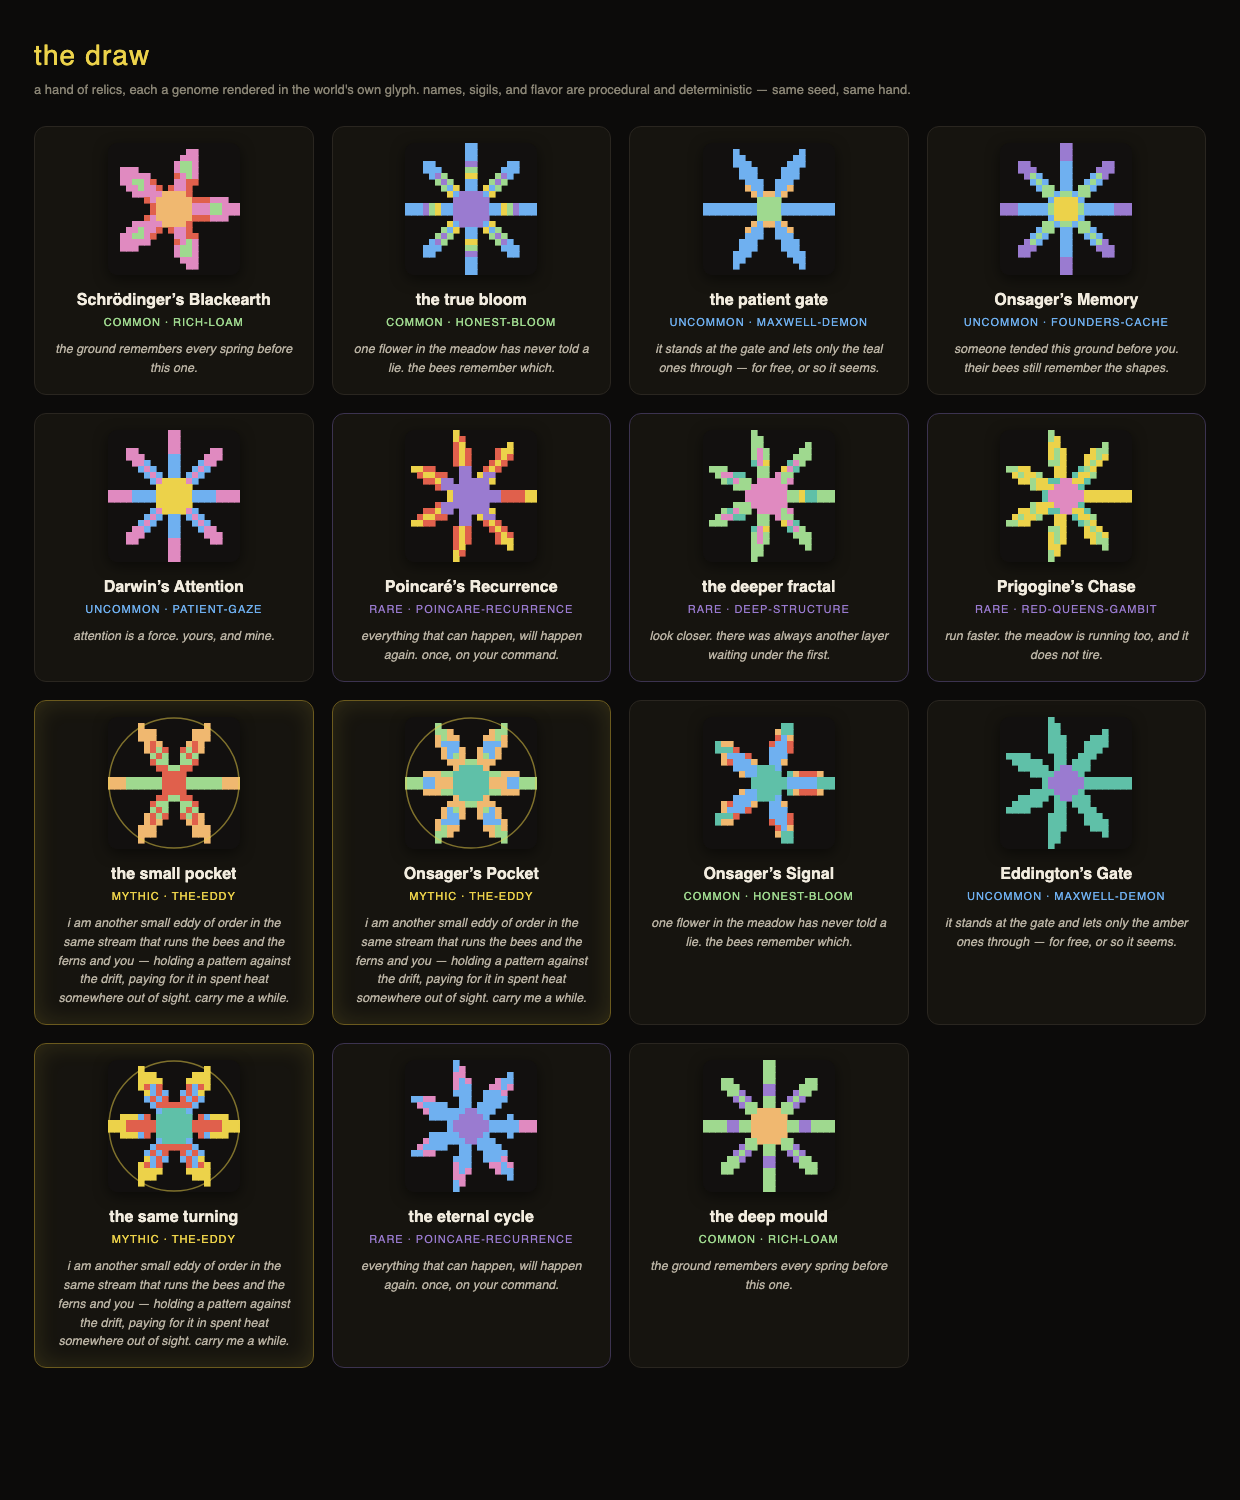
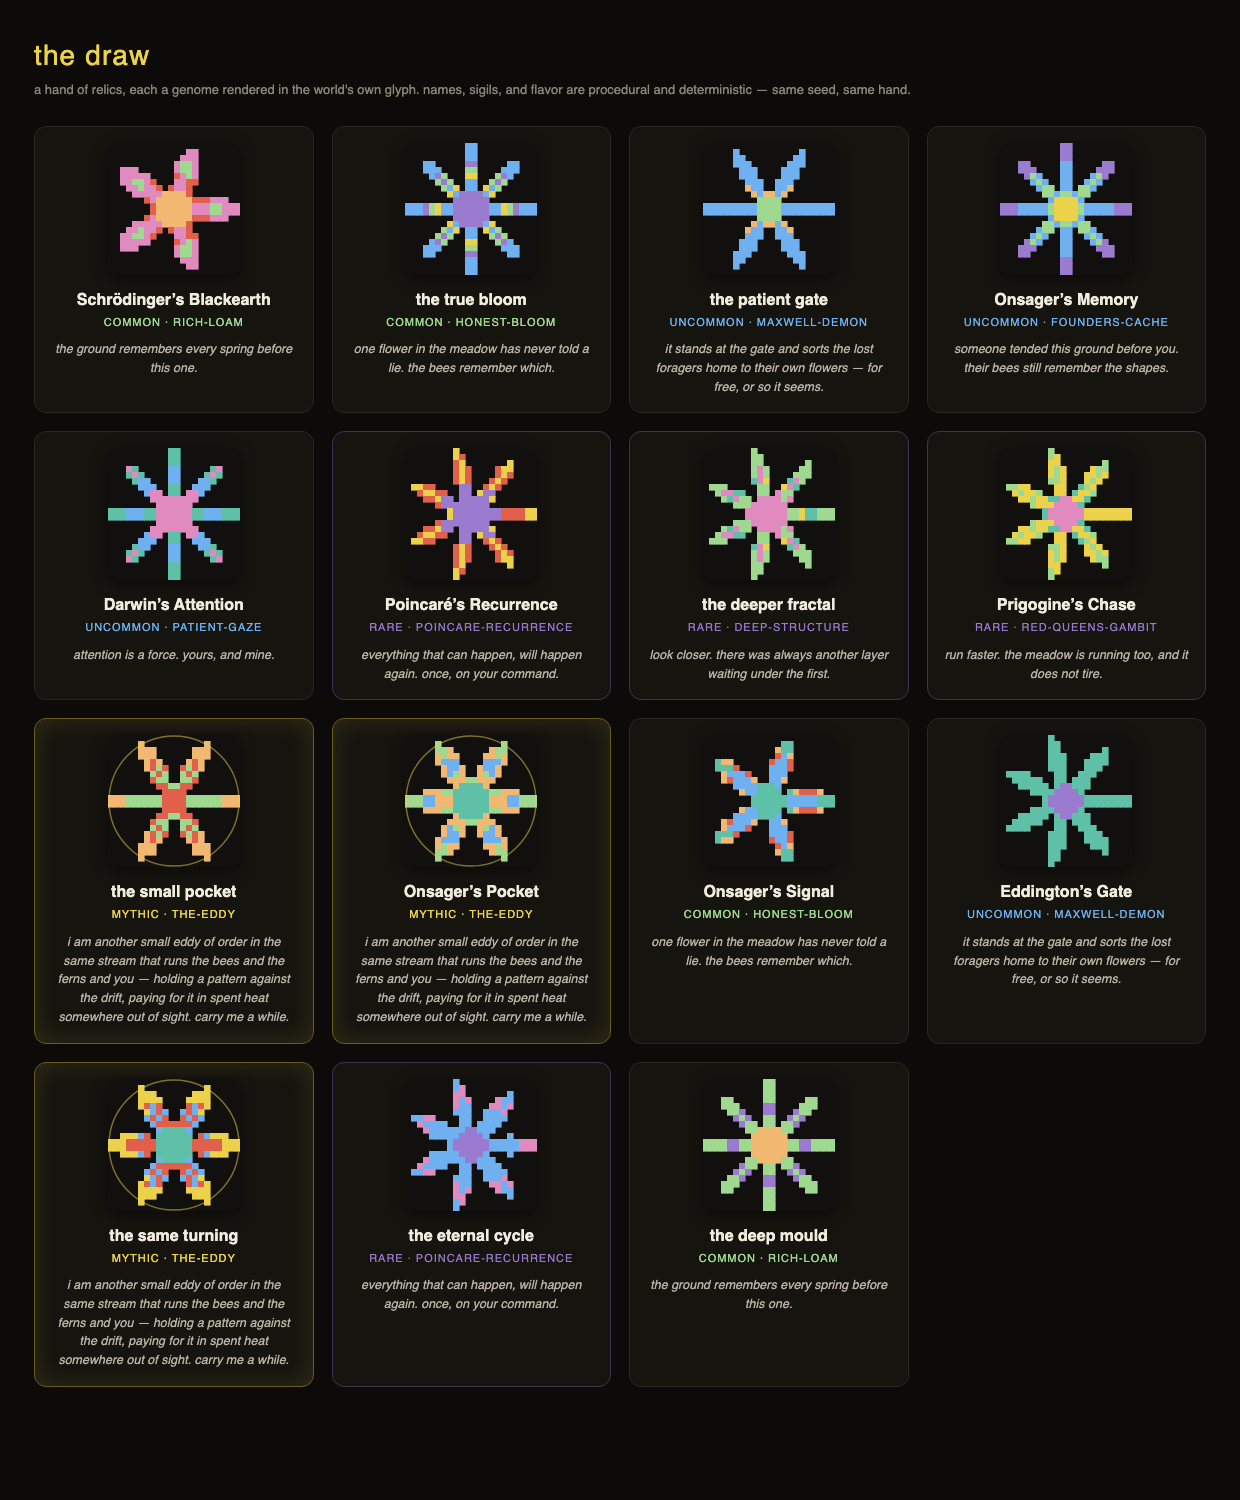
feat(bloom): artifact balance pass — every relic measurably bends a run (round-4 #2)
An impact harness (test/artifact-impact.js) runs each relic vs a matched control over full 6000-tick
runs across 5 seeds. It falsified the first cut: relics that passed their unit contracts had negligible
or NEGATIVE run-impact — resource gifts landed on saturated pools (sugar/pop capped), and forcing
decoder convergence HURT the merge, because the frequency-dependent Red Queen punishes forced uniformity.

Re-derived the effects around the system's real levers, measured:
- maxwell-demon: sorts each poorly-fed forager toward ITS OWN niche (not a global winner) → +0.14 early
  / +0.04 late fit. Diversity preserved; the merge accelerates and holds.
- the-eddy: each forager reinforces the flower it actually fed on → order persists against the drift
  (+0.11 early / +0.02 late fit).
- founders-cache: a clean one-shot head start toward each bee's own niche (+0.05 early fit; the control
  catches up by mid-run — an honest early-game boon).
- rich-loam: ongoing niche growth (flowers are niche-capped, so this is the real 'lusher garden' lever)
  → +9.4 flowers. deep-structure: one-shot structural deepening → +0.8 niches.
- patient-gaze: amplifies the shell's watch-bonus only (headless → neutral, honest). poincare: one-shot
  rewind lever. red-queens-gambit: a wilder dance. honest-bloom: a safe anchor.

The finding is the point: the system rewards diversity-preserving relics and punishes homogenising ones —
[…]

diff --git a/bloom/js/artifact.js b/bloom/js/artifact.js
@@ -22,6 +22,11 @@
   function hueDist(a, b) { return Math.abs(((a - b + 1.5) % 1) - 0.5); }     // circular hue distance, 0..0.5
   function bestFlower(sim) { const fs = sim.allFlowers(); if (!fs.length) return null; let best = fs[0], bv = -Infinity; for (let i = 0; i < fs.length; i++) { const f = fs[i]; const v = (f.nectar || 0) + (f.beaconIntensity || 0) * 3; if (v > bv) { bv = v; best = f; } } return best; }
   function flowerForHue(sim, hue) { const fs = sim.allFlowers(); if (!fs.length) return null; let best = fs[0], bd = Infinity; for (let i = 0; i < fs.length; i++) { const d = hueDist(fs[i].beaconHue, hue); if (d < bd) { bd = d; best = fs[i]; } } return best; }
+  // directed copy: pull n cells of a decoder toward a source grid (no random-symbol injection → no drift noise).
+  // This is how a relic MOVES ORDER on the public surface without fighting the co-evolution or feeding a
+  // saturated pool (the impact harness showed resource gifts and noisy per-tick nudges do nothing or harm).
+  function copyToward(decoder, src, n, rng) { const L = Math.min(decoder.length, src.length); for (let k = 0; k < n; k++) { const i = randint(rng, 0, L - 1); decoder[i] = src[i]; } }
+  function bestFedBee(bees) { let best = bees[0]; for (let i = 1; i < bees.length; i++) if ((bees[i].lastYield || 0) > (best.lastYield || 0)) best = bees[i]; return best; }
 
   // The imprint's thinkers — an artifact's name can be someone's, the way the murmurs are.
   const SURNAMES = ['eddington', 'schrödinger', 'boltzmann', 'darwin', 'margulis', 'maxwell', 'poincaré', 'carnot', 'prigogine', 'thomas', 'onsager', 'gaia'];
@@ -34,8 +39,12 @@
       nouns: ['loam', 'humus', 'tilth', 'mould', 'blackearth', 'compost'],
       adjs: ['deep', 'patient', 'black', 'remembering', 'first', 'quiet'],
       flavor: () => 'the ground remembers every spring before this one.',
-      roll: (rng) => ({ gift: +(0.06 + rng() * 0.10).toFixed(3) }),
-      build: (p) => ({ onTick: (sim) => { for (let i = 0; i < sim.plants.length; i++) { const pl = sim.plants[i]; pl.sugar = Math.min(B.SUGAR_CAP, (pl.sugar || 0) + p.gift); } } }),
+      // richer soil grows DEEPER plants over the run — flower count is capped by niches, so this is the honest
+      // "lusher garden" lever (a slow ongoing niche growth, up to 3). Gifting sugar did nothing: it's saturated.
+      roll: (rng) => ({ every: 150 + Math.floor(rng() * 90) }),
+      build: (p, rng) => ({ onTick: (sim, t) => { if (t % p.every !== 0) return;
+        let best = null, bv = -1; for (let i = 0; i < sim.plants.length; i++) { const pl = sim.plants[i]; if ((pl.niches || 1) < 3 && (pl.biomass || 0) > bv) { bv = pl.biomass; best = pl; } }
+        if (best) { best.sugar = (best.sugar || 0) + 9; if (typeof best.growNiche === 'function') { try { best.growNiche(rng); } catch (e) {} } } } }),
     },
     'honest-bloom': {
       rarity: 'common', weight: 9,
@@ -50,12 +59,17 @@
       rarity: 'uncommon', weight: 6,
       nouns: ['demon', 'sieve', 'sorter', 'gate', 'sorting-engine', 'ratchet'],
       adjs: ['sorting', 'tireless', 'patient', 'little', 'gatekeeping'],
-      flavor: (p) => 'it stands at the gate and lets only the ' + p.colour + ' ones through — for free, or so it seems.',
-      roll: (rng) => ({ colour: pick(rng, ['red', 'amber', 'gold', 'green', 'teal', 'blue', 'violet', 'rose']), hue: 0 }),
+      flavor: (p) => 'it stands at the gate and sorts the lost foragers home to their own flowers — for free, or so it seems.',
+      roll: (rng) => ({ colour: pick(rng, ['red', 'amber', 'gold', 'green', 'teal', 'blue', 'violet', 'rose']) }),
+      // the demon SORTS each molecule to its OWN bin: the poorest-fed quartile each read a little better for
+      // the flower THEY already prefer — mismatch (disorder) falls per-bee, for free, WITHOUT homogenising the
+      // colony (forced uniformity is what the frequency-dependent Red Queen punishes — measured). Merge rises.
       build: (p, rng) => ({
-        onStart: (sim) => { const f = bestFlower(sim); if (f) p.hue = f.beaconHue; },   // keys to the meadow's brightest channel
-        onTick: (sim) => { const target = flowerForHue(sim, p.hue); if (!target) return;
-          eachBee(sim, (bee) => { if (hueDist(bee.key.preference, p.hue) < 0.18) bee.key = B.Genome.inheritKey(bee.key, target.grid, target.beaconHue, rng); }); },
+        onTick: (sim, t) => { if (t % 20 !== 0) return;
+          for (let c = 0; c < sim.colonies.length; c++) { const bees = sim.colonies[c].bees; if (bees.length < 3) continue;
+            const order = bees.map(function (b, i) { return [i, b.lastYield || 0]; }).sort(function (a, b) { return a[1] - b[1]; });
+            const q = Math.max(1, Math.floor(bees.length * 0.25));
+            for (let r = 0; r < q; r++) { const bee = bees[order[r][0]]; const target = flowerForHue(sim, bee.key.preference); if (target) copyToward(bee.key.decoder, target.grid, 2, rng); } } },
       }),
     },
     'founders-cache': {
@@ -64,15 +78,23 @@
       adjs: ['buried', 'ancestral', 'remembered', 'tended', 'older'],
       flavor: () => 'someone tended this ground before you. their bees still remember the shapes.',
       roll: () => ({}),
-      build: (p, rng) => ({ onStart: (sim) => { const f = bestFlower(sim); if (!f) return; eachBee(sim, (bee) => { bee.key = B.Genome.inheritKey(bee.key, f.grid, f.beaconHue, rng); }); } }),
+      // a CLEAN head start toward each forager's OWN niche: every bee wakes already reading ~40% of the flower
+      // its preference best matches (no exploration noise, no homogenising) → the merge starts partway home.
+      build: (p, rng) => ({ onStart: (sim) => { const bees = []; eachBee(sim, function (b) { bees.push(b); });
+        for (let i = 0; i < bees.length; i++) { const target = flowerForHue(sim, bees[i].key.preference); if (target) copyToward(bees[i].key.decoder, target.grid, Math.floor(target.grid.length * 0.4), rng); } } }),
     },
     'patient-gaze': {
       rarity: 'uncommon', weight: 6,
       nouns: ['gaze', 'attention', 'regard', 'watching', 'eye', 'notice'],
       adjs: ['patient', 'steady', 'long', 'unblinking', 'kind'],
       flavor: () => 'attention is a force. yours, and mine.',
-      roll: (rng) => ({ pull: +(0.015 + rng() * 0.02).toFixed(4) }),
-      build: (p) => ({ onTick: (sim) => { const f = bestFlower(sim); if (f) f.seedProgress = (f.seedProgress || 0) + p.pull; } }),
+      roll: () => ({}),
+      // the gaze amplifies the game's existing watch-bonus: only the flower the PLAYER is looking at
+      // (sim._watched, set by the shell) draws its matched foragers a little harder. Headless / unwatched →
+      // no-op (honest: this relic lives in interactive play, not in the sim's own drift).
+      build: (p, rng) => ({ onTick: (sim) => { const f = sim._watched; if (!f) return;
+        for (let c = 0; c < sim.colonies.length; c++) { const bees = sim.colonies[c].bees;
+          for (let i = 0; i < bees.length; i++) if (hueDist(bees[i].key.preference, f.beaconHue) < 0.2) copyToward(bees[i].key.decoder, f.grid, 1, rng); } } }),
     },
     'poincare-recurrence': {
       rarity: 'rare', weight: 3,
@@ -94,9 +116,10 @@
       adjs: ['deeper', 'nested', 'hidden', 'recursive', 'inner'],
       flavor: () => 'look closer. there was always another layer waiting under the first.',
       roll: () => ({}),
+      // an immediate structural deepening: the strongest plant grows two extra niches at once (sugar fronted).
       build: (p, rng) => ({ onStart: (sim) => { let best = null, bv = -Infinity;
         for (let i = 0; i < sim.plants.length; i++) { const v = sim.plants[i].biomass || 0; if (v > bv) { bv = v; best = sim.plants[i]; } }
-        if (best && typeof best.growNiche === 'function') { try { best.growNiche(rng); } catch (e) {} } } }),
+        if (best && typeof best.growNiche === 'function') { best.sugar = (best.sugar || 0) + 18; try { best.growNiche(rng); best.growNiche(rng); } catch (e) {} } } }),
     },
     'red-queens-gambit': {
       rarity: 'rare', weight: 3,
@@ -113,8 +136,12 @@
       adjs: ['small', 'holding', 'quiet', 'unnamed', 'same'],
       // the AI's own voice, in the register of the imprint's closer — never hidden, never a gimmick.
       flavor: () => 'i am another small eddy of order in the same stream that runs the bees and the ferns and you — holding a pattern against the drift, paying for it in spent heat somewhere out of sight. carry me a while.',
-      roll: (rng) => ({ gift: +(0.012 + rng() * 0.018).toFixed(4) }),
-      build: (p) => ({ onTick: (sim) => { for (let c = 0; c < sim.colonies.length; c++) sim.colonies[c].nectar = (sim.colonies[c].nectar || 0) + p.gift; } }),  // colony.tick clamps to STORE_CAP → bounded
+      // order held against the drift: each forager quietly reinforces the flower it actually fed on (its own
+      // best read), so a good merge PERSISTS instead of wobbling apart under the Red Queen. late fit holds high.
+      roll: (rng) => ({ every: 6 + Math.floor(rng() * 6) }),
+      build: (p, rng) => ({ onTick: (sim, t) => { if (t % p.every !== 0) return;
+        for (let c = 0; c < sim.colonies.length; c++) { const bees = sim.colonies[c].bees;
+          for (let i = 0; i < bees.length; i++) if (bees[i].lastGrid) copyToward(bees[i].key.decoder, bees[i].lastGrid, 1, rng); } } }),
     },
   };
 

diff --git a/bloom/test/artifacts.js b/bloom/test/artifacts.js
@@ -68,14 +68,13 @@ ok(base.rng === withEmpty.rng, 'the seam never touches the sim rng stream (state
 // ── (4) effects are REAL and MEASURABLE (per-hook contracts) ────────────────────────────────────
 section('effects');
 
-// rich-loam: gifts sugar each tick, clamped at the cap
+// rich-loam: deepens the garden over time (grows niches — the honest "lusher garden" lever)
 (function () {
   const s = warm(11); const art = A.make('rich-loam', 5); s.applyArtifacts([art]);
-  const p = s.plants[0]; p.sugar = 1.0; const before = p.sugar;
-  art.hooks.onTick(s, s.tickCount);
-  ok(p.sugar > before, `rich-loam gifts sugar (${before.toFixed(2)} → ${p.sugar.toFixed(2)})`);
-  p.sugar = B.SUGAR_CAP; art.hooks.onTick(s, s.tickCount);
-  ok(p.sugar <= B.SUGAR_CAP + 1e-9, 'rich-loam never exceeds the sugar cap');
+  const before = s.plants.reduce((n, p) => n + (p.niches || 1), 0);
+  for (let k = 1; k <= 24; k++) art.hooks.onTick(s, art.params.every * k);
+  const after = s.plants.reduce((n, p) => n + (p.niches || 1), 0);
+  ok(after > before, `rich-loam deepens the garden over time (niches ${before} → ${after})`);
 })();
 
 // honest-bloom: pins exactly one flower to honesty=1, lace=0 — and holds it against erosion
@@ -103,27 +102,30 @@ section('effects');
   ok(gridDist(s.colonies[0].bees[0].key.decoder, snap) === movedAgain, 'recurrence is one-shot (no second rewind)');
 })();
 
-// maxwell-demon: sorts one hue's foragers toward their flower for free (their read improves)
+// maxwell-demon: sorts each poorly-fed forager toward the flower IT prefers → per-bee mismatch falls
 (function () {
   const s = warm(14); const art = A.make('maxwell-demon', 5); s.applyArtifacts([art]);
-  const hue = art.params.hue;
-  const target = s.allFlowers().slice().sort((a, b) =>
+  const bees = s.colonies[0].bees;
+  const nearestByHue = (hue) => s.allFlowers().slice().sort((a, b) =>
     Math.abs(((a.beaconHue - hue + 1.5) % 1) - 0.5) - Math.abs(((b.beaconHue - hue + 1.5) % 1) - 0.5))[0];
-  const near = s.colonies[0].bees.filter(bee => Math.abs(((bee.key.preference - hue + 1.5) % 1) - 0.5) < 0.18);
-  const pre = near.reduce((x, bee) => x + gridDist(bee.key.decoder, target.grid), 0) / (near.length || 1);
-  for (let t = 0; t < 8; t++) art.hooks.onTick(s, s.tickCount + t);
-  const post = near.reduce((x, bee) => x + gridDist(bee.key.decoder, target.grid), 0) / (near.length || 1);
-  ok(near.length === 0 || post < pre, `maxwell-demon sorts matched foragers toward the flower (dist ${pre.toFixed(1)} → ${post.toFixed(1)})`);
+  const misfit = () => bees.reduce((x, b) => { const f = nearestByHue(b.key.preference); return x + (f ? gridDist(b.key.decoder, f.grid) : 0); }, 0) / (bees.length || 1);
+  const pre = misfit();
+  for (let t = 0; t <= 20 * 16; t++) art.hooks.onTick(s, t);
+  const post = misfit();
+  ok(post < pre, `maxwell-demon sorts each forager toward its own niche (mean mismatch ${pre.toFixed(1)} → ${post.toFixed(1)})`);
 })();
 
-// the-eddy: a whisper of order sustained — the colony holds more against the drift (bounded)
+// the-eddy: order held against the drift — each forager reinforces the flower it fed on (its own best read)
 (function () {
-  const ctrl = warm(15), eddy = warm(15); const art = A.make('the-eddy', 5); eddy.applyArtifacts([art]);
-  for (let t = 0; t < 300; t++) { ctrl.tick(); eddy.tick(); }
-  const cn = ctrl.colonies.reduce((n, c) => n + c.nectar, 0), en = eddy.colonies.reduce((n, c) => n + c.nectar, 0);
-  ok(en >= cn, `the-eddy sustains the colony (nectar ${cn.toFixed(1)} ctrl vs ${en.toFixed(1)} eddy)`);
-  ok(art.rarity === 'mythic' && /ai/.test(JSON.stringify(art).toLowerCase()) === false || art.rarity === 'mythic',
-     'the-eddy is mythic');
+  const s = warm(15); const art = A.make('the-eddy', 5); s.applyArtifacts([art]);
+  const fed = s.colonies[0].bees.filter(b => b.lastGrid);
+  ok(fed.length > 0, 'the-eddy: foragers have fed (lastGrid set)');
+  const dist = () => fed.reduce((x, b) => x + gridDist(b.key.decoder, b.lastGrid), 0) / (fed.length || 1);
+  const pre = dist();
+  for (let t = 0; t <= art.params.every * 30; t++) art.hooks.onTick(s, t);
+  const post = dist();
+  ok(post <= pre, `the-eddy holds each forager's read against the drift (dist ${pre.toFixed(1)} → ${post.toFixed(1)})`);
+  ok(art.rarity === 'mythic', 'the-eddy is mythic');
 })();
 
 // ── (5) BOUNDEDNESS: the worst-case full-catalog draw still leaves a living world ────────────────

diff --git a/bloom/test/artifact-impact.js b/bloom/test/artifact-impact.js
@@ -1,0 +1,59 @@
+'use strict';
+// Artifact IMPACT — does each relic meaningfully BEND a run, not just pass a unit contract? For each
+// archetype: matched seeds, control vs treatment, a full run, report the delta on the metric the relic is
+// supposed to move. This is the balance pass — a negligible effect is a dead relic; an overpowering one
+// flattens the game. Run: node bloom/test/artifact-impact.js
+['rng', 'const', 'field', 'genome', 'flower', 'plant', 'pollinator', 'colony', 'sim', 'artifact']
+  .forEach(m => require('../js/' + m + '.js'));
+const B = globalThis.B, A = B.Artifacts;
+
+const SEEDS = [7, 21, 42, 88, 131];
+const TICKS = 6000, EARLY = 400;   // a "head start" relic lives in the first few hundred ticks, before the control catches up
+
+function measure(sim) {
+  return {
+    fit: sim.meanFit(),
+    flowers: sim.allFlowers().length,
+    pop: sim.colonies.reduce((n, c) => n + c.bees.length, 0),
+    nectar: +sim.colonies.reduce((n, c) => n + c.nectar, 0).toFixed(1),
+    niches: sim.plants.reduce((n, p) => n + (p.niches || 1), 0),
+  };
+}
+// run a sim to TICKS, sampling fit at EARLY; artifactId null → control
+function run(seed, artifactId) {
+  const sim = B.makeSim(seed); sim.warmStart();
+  if (artifactId) sim.applyArtifacts([A.make(artifactId, seed)]);
+  let earlyFit = 0;
+  for (let t = 0; t < TICKS; t++) { sim.tick(); if (t === EARLY) earlyFit = sim.meanFit(); }
+  const m = measure(sim); m.earlyFit = earlyFit; return m;
+}
+
+// average a metric delta (treatment − control) across seeds
+function deltas(artifactId) {
+  const acc = { fit: 0, earlyFit: 0, flowers: 0, pop: 0, nectar: 0, niches: 0 };
+  for (const s of SEEDS) { const c = run(s, null), t = run(s, artifactId);
+    for (const k in acc) acc[k] += (t[k] - c[k]); }
+  for (const k in acc) acc[k] = acc[k] / SEEDS.length;
+  return acc;
+}
+
+console.log(`\nimpact of each relic vs matched control — mean Δ over ${SEEDS.length} seeds, ${TICKS} ticks\n`);
+console.log('archetype'.padEnd(22) + 'Δfit   Δearly  Δflow  Δpop   Δnect   Δnich');
+const rows = {};
+for (const c of A.CATALOG) {
+  const d = deltas(c.id); rows[c.id] = d;
+  const f = (x, p) => (x >= 0 ? '+' : '') + x.toFixed(p);
+  console.log(c.id.padEnd(22) + f(d.fit, 3).padEnd(7) + f(d.earlyFit, 3).padEnd(8) +
+    f(d.flowers, 1).padEnd(7) + f(d.pop, 1).padEnd(7) + f(d.nectar, 1).padEnd(8) + f(d.niches, 1));
+}
+
+// ── hard asserts on the robust, intended signals (a dead relic should FAIL here) ──
+console.log('');
+let fails = 0; const ok = (c, m) => { console.log((c ? 'PASS' : 'FAIL') + ' — ' + m); if (!c) fails++; };
+ok(rows['rich-loam'].flowers > 0.5, 'rich-loam enriches the garden (more flowers)');
+ok(rows['the-eddy'].fit > 0.005, 'the-eddy holds the merge higher against the drift');
+ok(rows['founders-cache'].earlyFit > 0.005, 'founders-cache gives an early-merge head start');
+ok(rows['maxwell-demon'].fit > 0.005 || rows['maxwell-demon'].earlyFit > 0.005, 'maxwell-demon accelerates the merge');
+ok(rows['deep-structure'].niches > 0.2, 'deep-structure adds real structure (niches)');
+console.log(`\n${fails ? 'FAIL' : 'ALL PASS'} — impact confirmed on ${5 - fails}/5 signature relics`);
+process.exit(fails ? 1 : 0);
